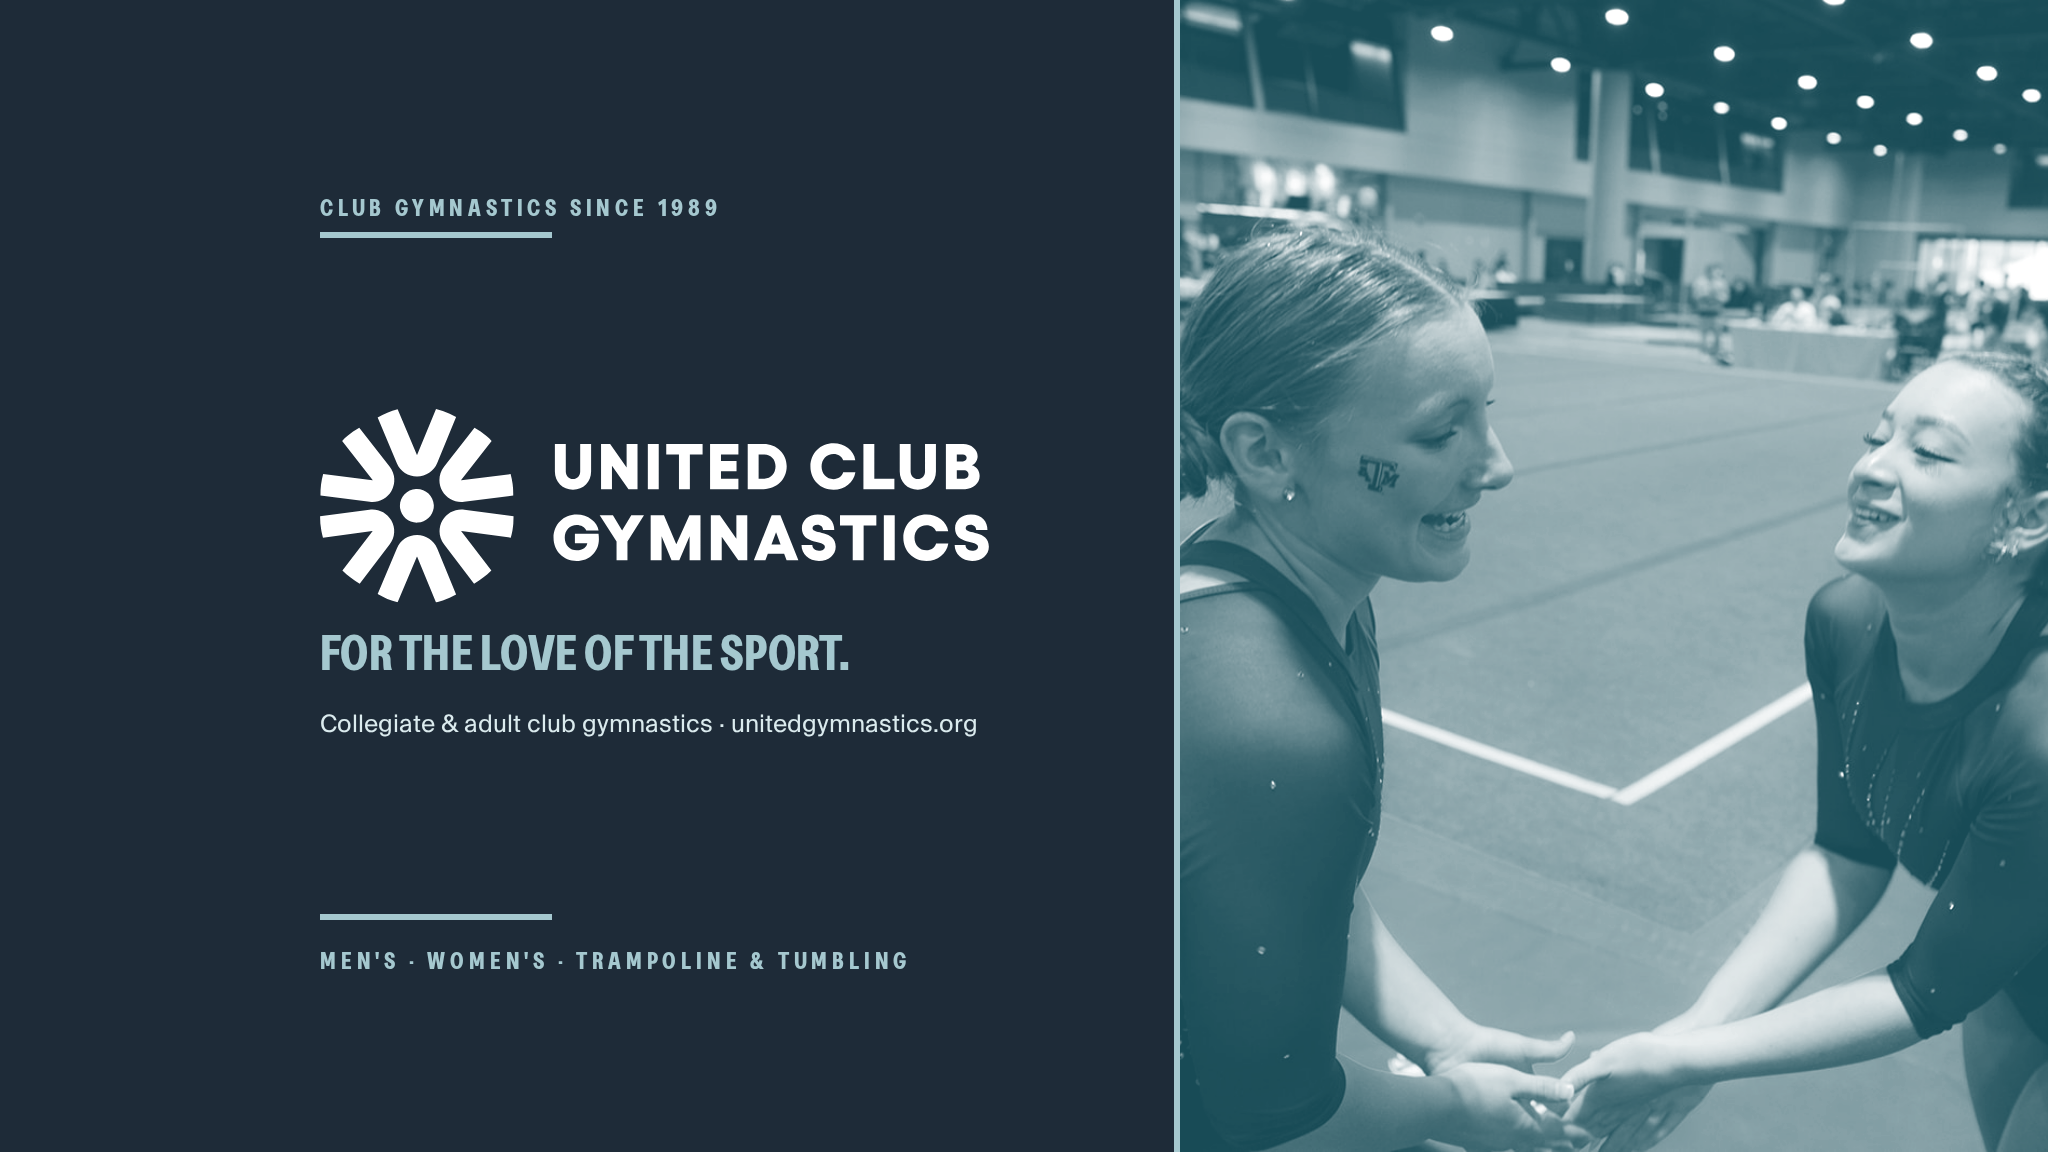
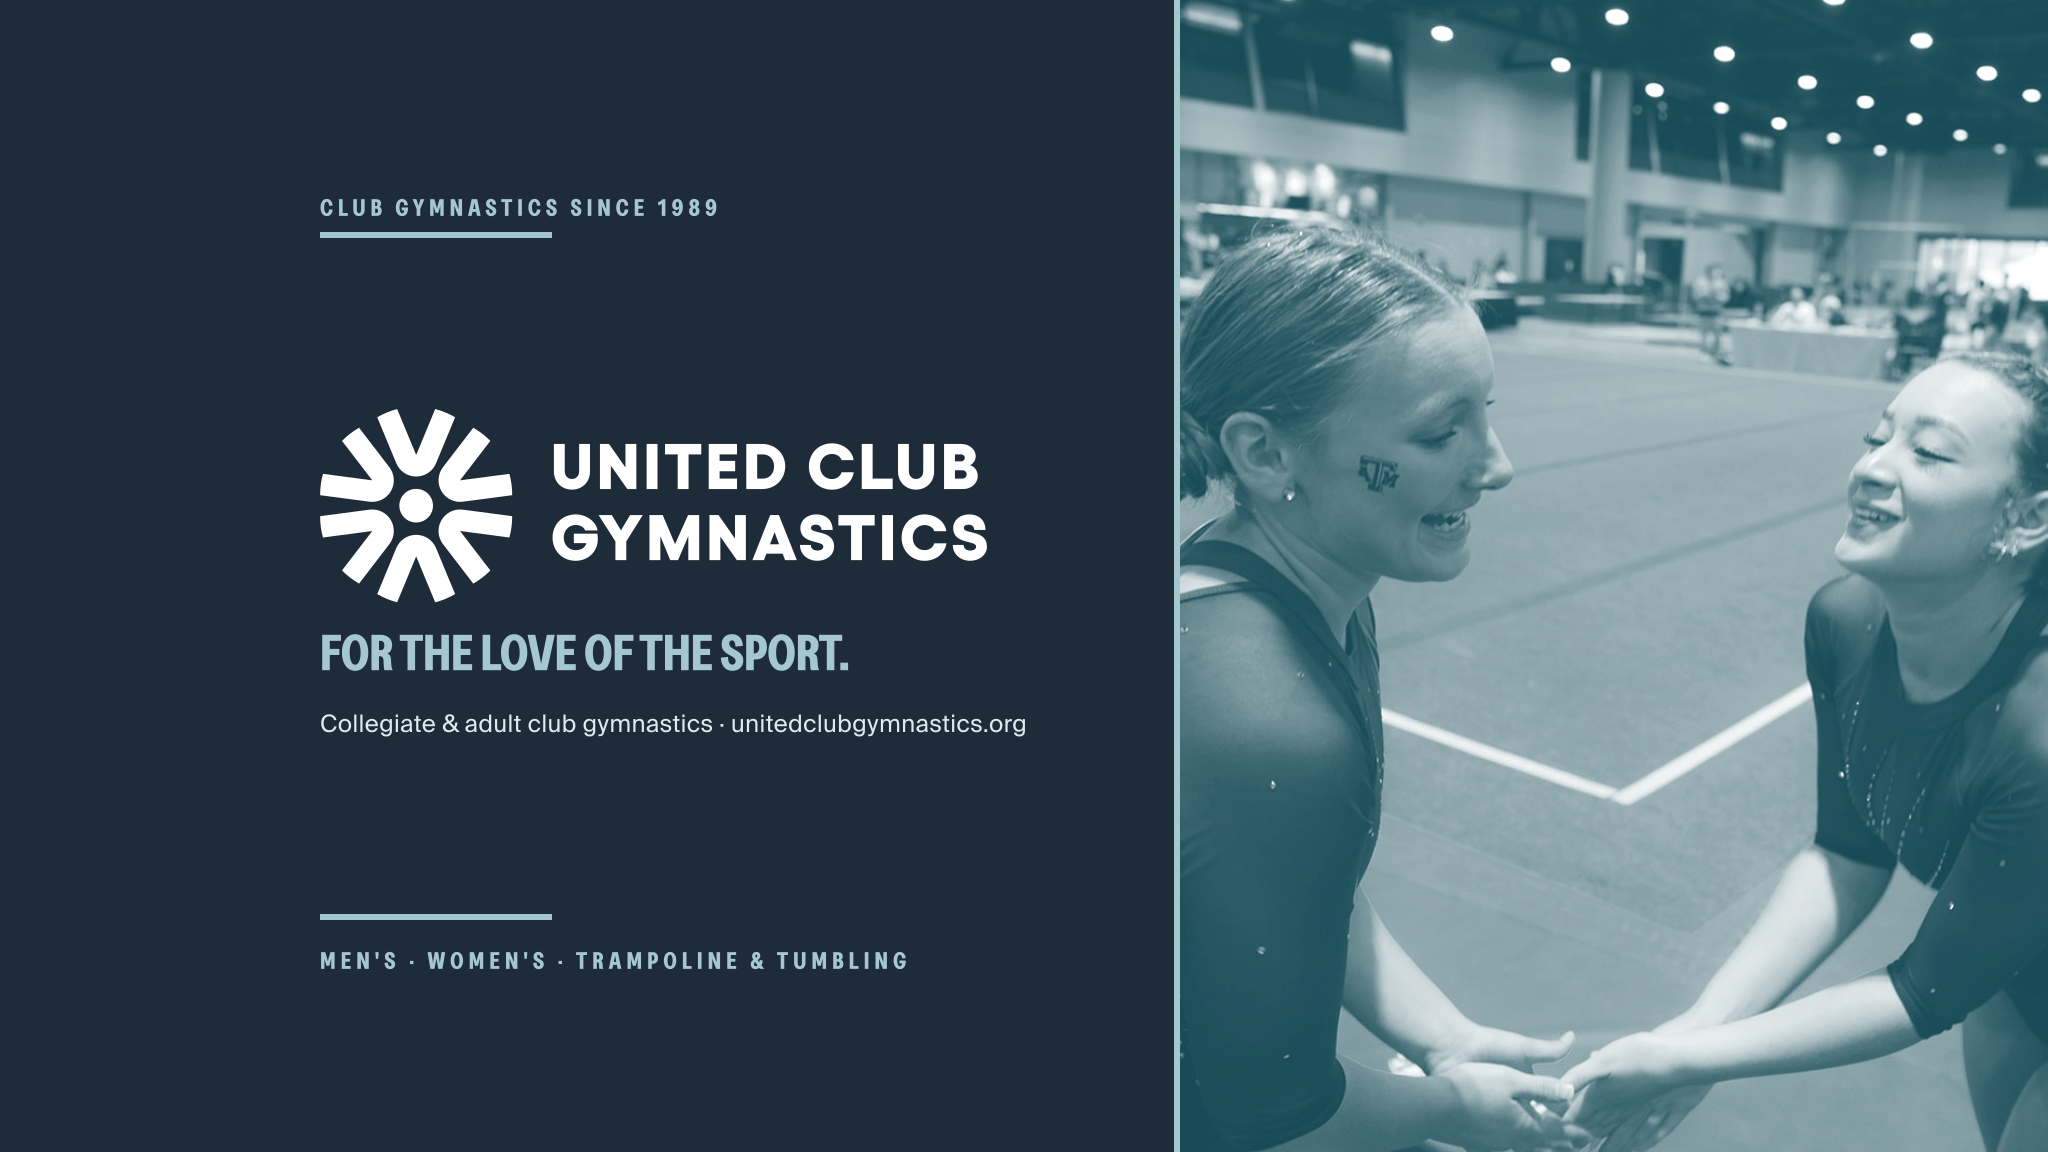
Social files: clean mark, and editable sources on the asset board
The Facebook cover, YouTube banner, Zoom backgrounds and email header had
no vector source. They now have artboards in the toolkit's All UCG Assets.svg
(section "05 Social & Digital"), fitted to reproduce the delivered PNGs, with
live Greed/Suisse text and export hints. The PNGs are re-exported with the
clean mark. The YouTube banner now gives the canonical domain
(unitedclubgymnastics.org), and the mirrored Zoom background is a true
mirror of the regular one.

diff --git a/social/index.html b/social/index.html
@@ -134,7 +134,7 @@
 </section>
 <section class="doc-section" id="sec-social-banners-assets-social">
 <div class="prose"><h2 id="social-banners-assets-social">Social banners</h2>
-<p>Facebook cover, YouTube banner, Zoom backgrounds and the email header logo (<code>ucg-email-header.png</code>, navy background baked in so it survives dark mode).</p>
+<p>Facebook cover, YouTube banner, Zoom backgrounds and the email header logo (<code>ucg-email-header.png</code>, navy background baked in so it survives dark mode). Their editable sources are the "05 Social &amp; Digital" artboards in the toolkit's <code>All UCG Assets.svg</code> (live text in Greed and Suisse; each artboard remembers its export file name and size). The mirrored Zoom background is a clone of the regular one, so edit that one.</p>
 </div>
 <div class="vis"><div class="grid" style="--min:260px"><div class="asset"><div class="on-white" style="padding:14px;display:flex;align-items:center;justify-content:center;min-height:150px"><img alt="Facebook cover" loading="lazy" src="../assets/social/ucg-facebook-cover.png" style="max-height:160px"/></div><div class="meta"><b>Facebook cover</b><span class="dl"><a download="" href="../assets/social/ucg-facebook-cover.png">PNG</a></span></div></div><div class="asset"><div class="on-white" style="padding:14px;display:flex;align-items:center;justify-content:center;min-height:150px"><img alt="YouTube banner" loading="lazy" src="../assets/social/ucg-youtube-banner-2048x1152.png" style="max-height:160px"/></div><div class="meta"><b>YouTube banner</b><span class="dl"><a download="" href="../assets/social/ucg-youtube-banner-2048x1152.png">PNG</a></span></div></div><div class="asset"><div class="on-white" style="padding:14px;display:flex;align-items:center;justify-content:center;min-height:150px"><img alt="Zoom background" loading="lazy" src="../assets/social/ucg-zoom-background.png" style="max-height:160px"/></div><div class="meta"><b>Zoom background</b><span class="dl"><a download="" href="../assets/social/ucg-zoom-background.png">PNG</a></span></div></div><div class="asset"><div class="on-navy" style="padding:14px;display:flex;align-items:center;justify-content:center;min-height:150px"><img alt="Email header" loading="lazy" src="../assets/social/ucg-email-header.png" style="max-height:160px"/></div><div class="meta"><b>Email header</b><span class="dl"><a download="" href="../assets/social/ucg-email-header.png">PNG</a></span></div></div></div></div>
 </section>

diff --git a/tools/copy_logos.py b/tools/copy_logos.py
@@ -47,4 +47,16 @@ extras = {
 for f, name in extras.items():
     shutil.copyfile(f, DST / name)
     n += 1
+# social and digital files (sources: the "05 Social & Digital" artboards in All UCG Assets.svg)
+SOCIAL = DST.parent / "social"
+social = {
+    "UCG_Facebook_Cover_Photo.png": "ucg-facebook-cover.png",
+    "ucg-youtube-banner-2048x1152.png": "ucg-youtube-banner-2048x1152.png",
+    "UCG Zoom Background.png": "ucg-zoom-background.png",
+    "UCG Zoom Background (mirror).png": "ucg-zoom-background-mirrored.png",
+    "ucg-email-header-logo.png": "ucg-email-header.png",
+}
+for f, name in social.items():
+    shutil.copyfile(SRC.parent / f, SOCIAL / name)
+    n += 1
 print("copied", n, "files to", DST)

diff --git a/references/assets.md b/references/assets.md
@@ -65,7 +65,7 @@ File names: `ucg-<color|bw>-<what's in it>.jpg`. Pick the B&W edit for athlete f
 
 ## Social banners — `assets/social/`
 
-Facebook cover, YouTube banner, Zoom backgrounds and the email header logo (`ucg-email-header.png`, navy background baked in so it survives dark mode).
+Facebook cover, YouTube banner, Zoom backgrounds and the email header logo (`ucg-email-header.png`, navy background baked in so it survives dark mode). Their editable sources are the "05 Social & Digital" artboards in the toolkit's `All UCG Assets.svg` (live text in Greed and Suisse; each artboard remembers its export file name and size). The mirrored Zoom background is a clone of the regular one, so edit that one.
 
 ## Patterns — `assets/patterns/`
 
